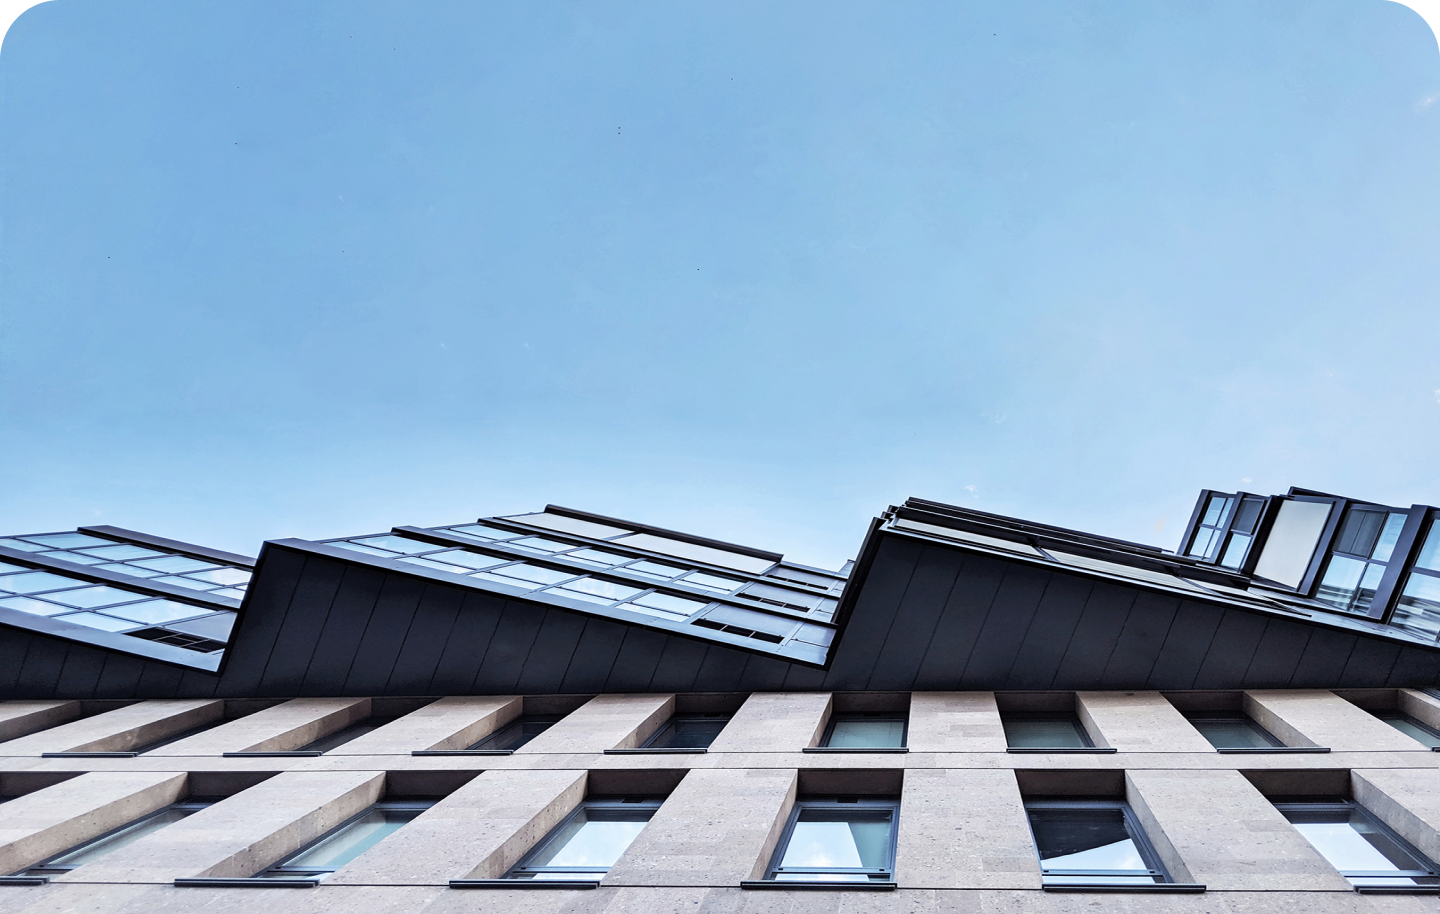
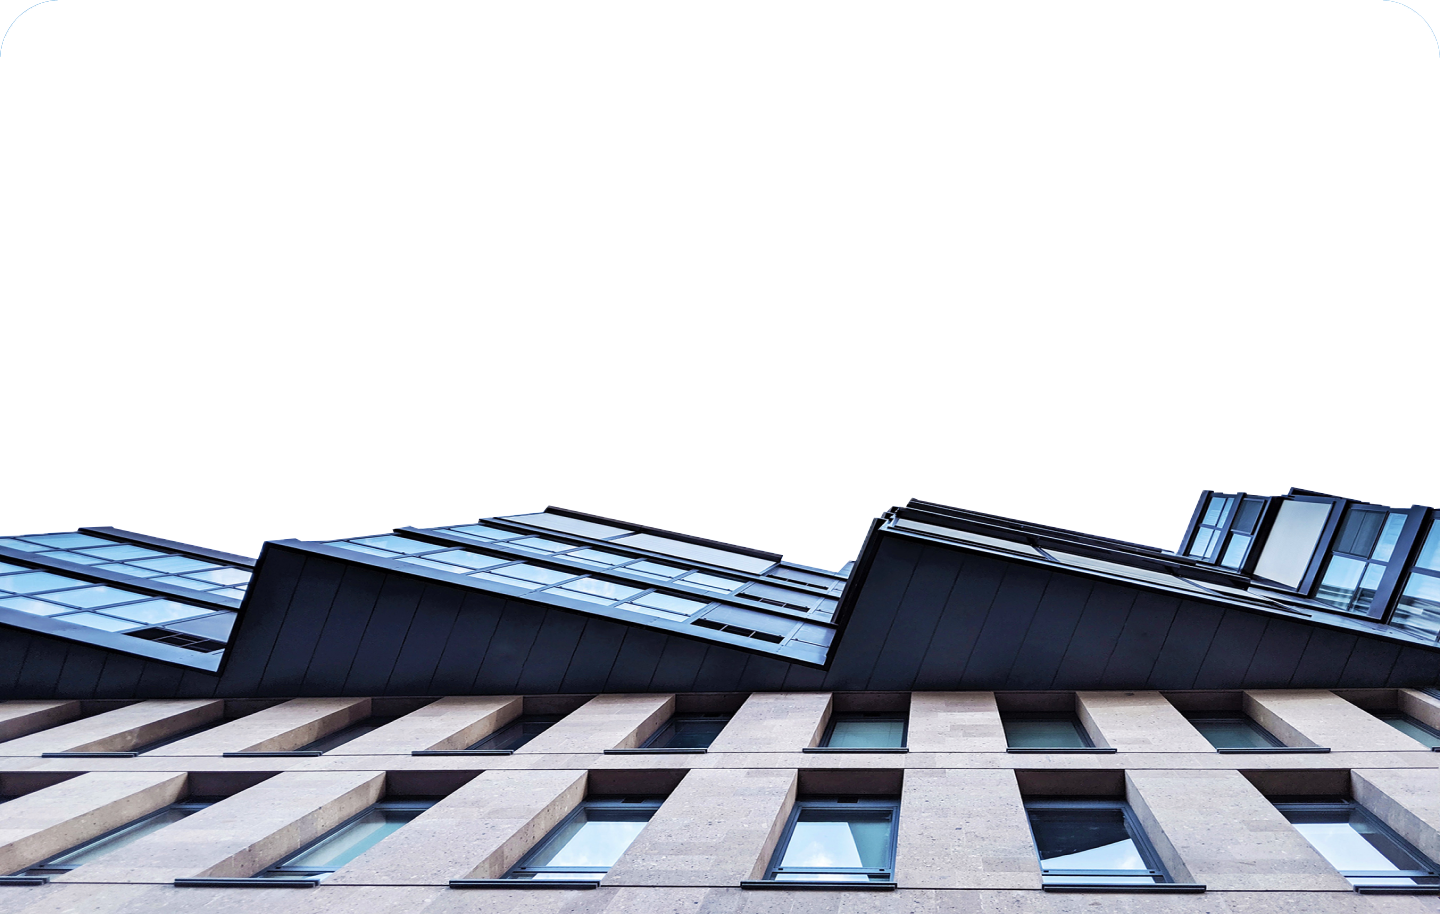
add building image in header

diff --git a/components/Header.jsx b/components/Header.jsx
@@ -1,0 +1,25 @@
+import Image from "next/image";
+
+const Header = () => {
+  return (
+    <header>
+      <div className=" w-[90%] bg-gradient-to-b from-blue-500 to-blue-200 rounded-t-[3rem] h-screen mt-6 md:mt-10 mx-auto relative">
+        <Image
+          src="/images/header-home.png"
+          width={500}
+          height={300}
+          className="w-full absolute top-0"
+        />
+      </div>
+
+      <Image
+        src="/images/backdrop.svg"
+        width={500}
+        height={300}
+        className="w-full fixed top-0 right-0 pointer-events-none -z-10"
+      />
+    </header>
+  );
+};
+
+export default Header;
